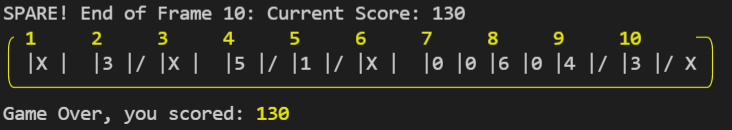
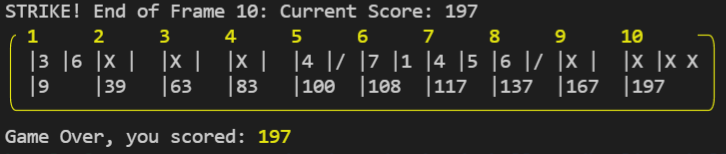
Added cumulative frame scores to visualisation. Refactor outstanding

Changed region(s): [[0.0, 0.1846, 1.0, 0.7385], [0.0, 0.0, 0.6667, 0.1538], [0.0, 0.8, 0.4242, 0.9538]]

diff --git a/lib/index.js b/lib/index.js
@@ -34,7 +34,7 @@ const renderHeader = () => {
 }
 
 const renderScoreCard = () => {
-  console.log( boxen(` ${scorecard.formatFrames()} `, {title: '1     2     3     4     5     6     7     8     9     10    ', borderColor: 'yellow', borderStyle: 'round' , titleAlignment: 'center'}) )
+  console.log( boxen(` ${scorecard.formatFrames()}\n${scorecard.formatScores()} `, {title: '1     2     3     4     5     6     7     8     9     10    ', borderColor: 'yellow', borderStyle: 'round' , titleAlignment: 'center'}) )
 }
 
 const frameText = () => {

diff --git a/tests/scorecard.test.js b/tests/scorecard.test.js
@@ -95,6 +95,13 @@ describe("ScoreCard class", () => {
     expect(scorecard.formatFrames()).toBe('|1 |2 |1 |2 |  |  |  |  |  |  |  |  |  |  |  |  |  |  |  |  ');
   });
 
+  it("returns a formatted string of scores for 2 frames ", () => {
+    scorecard.logRoll(1);
+    scorecard.logRoll(2);
+    scorecard.logRoll(1);
+    scorecard.logRoll(2); 
+    expect(scorecard.formatScores()).toBe(' |3    |6    |     |     |     |     |     |     |     |     ');
+  });
 
   
 })
